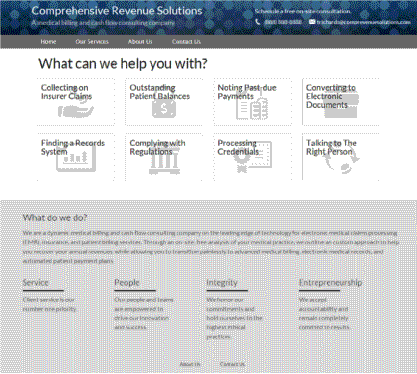
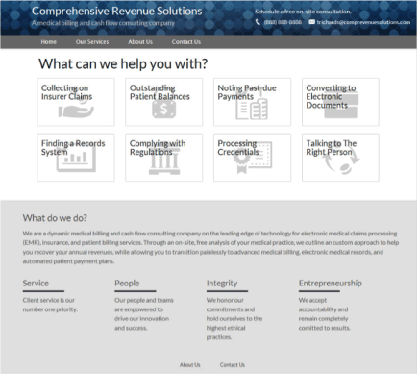
Changed "read more" arrows to orange, optimized CRS image

diff --git a/css/style.css b/css/style.css
@@ -1493,43 +1493,43 @@ a i.icon {
 .linktoslide0 a {text-decoration: none; border-bottom: hidden !important;}
 .linktoslide0 a:hover > span {color: #ff9966; border-bottom: hidden !important; }
 .linktoslide0 a:link > span {text-decoration: none; border-bottom:groove 1px ; }
-.linktoslide0 a:before {content: "\f103"; font-family: FontAwesome; padding-right: 0.5em;}
+.linktoslide0 a:before {content: "\f103"; font-family: FontAwesome; padding-right: 0.5em; color:#ff9966; padding-left: 0.5em}
 
 .linktoslide1 a {text-decoration: none; border-bottom: hidden !important;}
 .linktoslide1 a:hover > span {color: #ff9966; border-bottom: hidden !important; }
 .linktoslide1 a:link > span {text-decoration: none; border-bottom:groove 1px ; }
-.linktoslide1 a:before {content: "\f103"; font-family: FontAwesome; padding-right: 0.5em;}
+.linktoslide1 a:before {content: "\f103"; font-family: FontAwesome; padding-right: 0.5em; color:#ff9966; padding-left: 0.5em}
 
 .linktoslide2 a {text-decoration: none; border-bottom: hidden !important;}
 .linktoslide2 a:hover > span {color: #ff9966; border-bottom: hidden !important; }
 .linktoslide2 a:link > span {text-decoration: none; border-bottom:groove 1px ; }
-.linktoslide2 a:before {content: "\f103"; font-family: FontAwesome; padding-right: 0.5em;}
+.linktoslide2 a:before {content: "\f103"; font-family: FontAwesome; padding-right: 0.5em; color:#ff9966; padding-left: 0.5em}
 
 .linktoslide3 a {text-decoration: none; border-bottom: hidden !important;}
 .linktoslide3 a:hover > span {color: #ff9966; border-bottom: hidden !important; }
 .linktoslide3 a:link > span {text-decoration: none; border-bottom:groove 1px ; }
-.linktoslide3 a:before {content: "\f103"; font-family: FontAwesome; padding-right: 0.5em;}
+.linktoslide3 a:before {content: "\f103"; font-family: FontAwesome; padding-right: 0.5em; color:#ff9966; padding-left: 0.5em}
 
 .linktoslide4 a {text-decoration: none; border-bottom: hidden !important;}
 .linktoslide4 a:hover > span {color: #ff9966; border-bottom: hidden !important; }
 .linktoslide4 a:link > span {text-decoration: none; border-bottom:groove 1px ; }
-.linktoslide4 a:before {content: "\f103"; font-family: FontAwesome; padding-right: 0.5em;}
+.linktoslide4 a:before {content: "\f103"; font-family: FontAwesome; padding-right: 0.5em; color:#ff9966; padding-left: 0.5em}
 
 .linktoslide5 a {text-decoration: none; border-bottom: hidden !important;}
 .linktoslide5 a:hover > span {color: #ff9966; border-bottom: hidden !important; }
 .linktoslide5 a:link > span {text-decoration: none; border-bottom:groove 1px ; }
-.linktoslide5 a:before {content: "\f103"; font-family: FontAwesome; padding-right: 0.5em;}
+.linktoslide5 a:before {content: "\f103"; font-family: FontAwesome; padding-right: 0.5em; color:#ff9966; padding-left: 0.5em}
 
 .linktoslide6 a {text-decoration: none; border-bottom: hidden !important;}
 .linktoslide6 a:hover > span {color: #ff9966; border-bottom: hidden !important; }
 .linktoslide6 a:link > span {text-decoration: none; border-bottom:groove 1px ; }
-.linktoslide6 a:before {content: "\f103"; font-family: FontAwesome; padding-right: 0.5em;}
+.linktoslide6 a:before {content: "\f103"; font-family: FontAwesome; padding-right: 0.5em; color:#ff9966; padding-left: 0.5em}
 
 
 .linktoslidetoclose a {text-decoration: none; border-bottom: hidden !important;}
 .linktoslidetoclose a:hover > span {color: #ff9966; border-bottom: hidden !important; }
 .linktoslidetoclose a:link > span {text-decoration: none; border-bottom:groove 1px ; }
-.linktoslidetoclose a:before {content: "\f102"; font-family: FontAwesome; padding-right: 0.5em;}
+.linktoslidetoclose a:before {content: "\f102"; font-family: FontAwesome; padding-right: 0.5em; color:#ff9966; padding-left: 0.5em}
 
 
 
